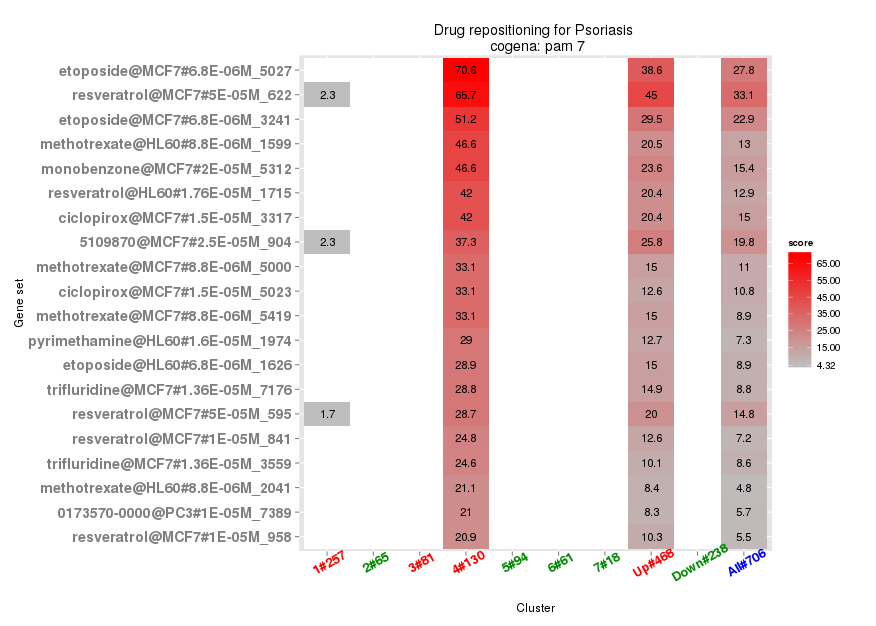
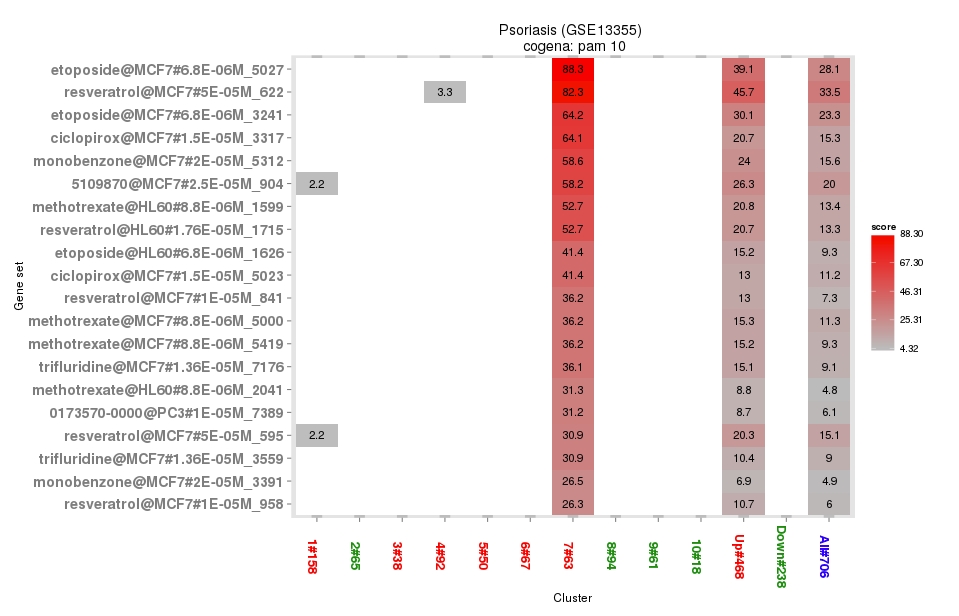
Update figures and vignette for PAM 10.

Changed region(s): [[0.0, 0.0308, 0.9555, 0.9562], [0.5856, 0.9562, 0.6473, 0.987]]

diff --git a/README.md b/README.md
@@ -11,15 +11,15 @@ The version of cogena at github is also availiable at [Bioconductor](http://www.
 ##The workflow of cogena
 ![cogena_workflow](inst/figure/Cogena_workflow.png)
 
-##The heatmap of co-expressed genes based on pam methods with 7 clusters
+##The heatmap of co-expressed genes based on pam methods with 10 clusters
 ![cogena_heatmapCluster](inst/figure/heatmapCluster.png)
 
 
-##KEGG pathway analysis for 7 clusters, together with Down-regulated, Up-regualted and All DE genes. The values shown are the -log2(FDR).
+##KEGG pathway analysis for 10 clusters, together with Down-regulated, Up-regualted and All DE genes. The values shown are the -log2(FDR).
 ![cogena_heatmapPEI](inst/figure/heatmapPEI.png)
 
 
-##Drug repositioning analysis for the 4th cluster.
+##Drug repositioning analysis for the 7th cluster.
 ![cogena_heatmapCmap](inst/figure/heatmapCmap0.png)
 
 
